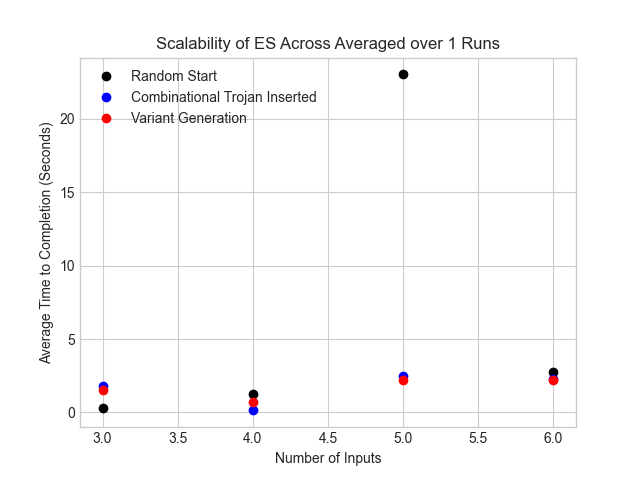
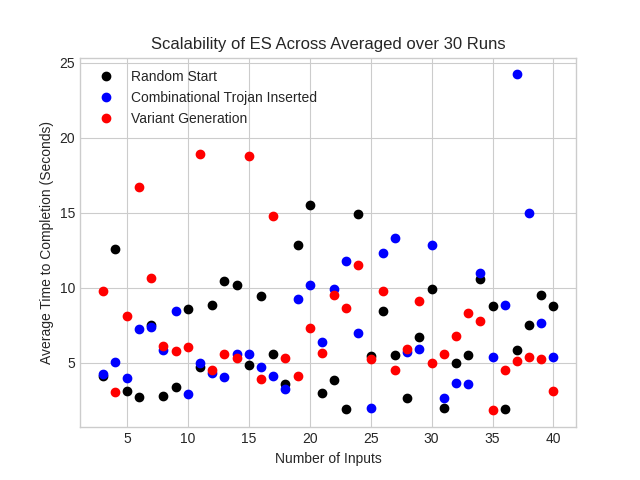
BigDaddy scalability runs

diff --git a/HereBoy.py b/HereBoy.py
@@ -590,7 +590,7 @@ def scalabilityTest(number_of_runs) -> None:
     import os
     t = Timer()
     a = 3   #start input range
-    b = 7  #end input range
+    b = 41  #end input range
 
     #used to store results. test_mode is the key
     results = {0:[], 1:[], 2:[]}
